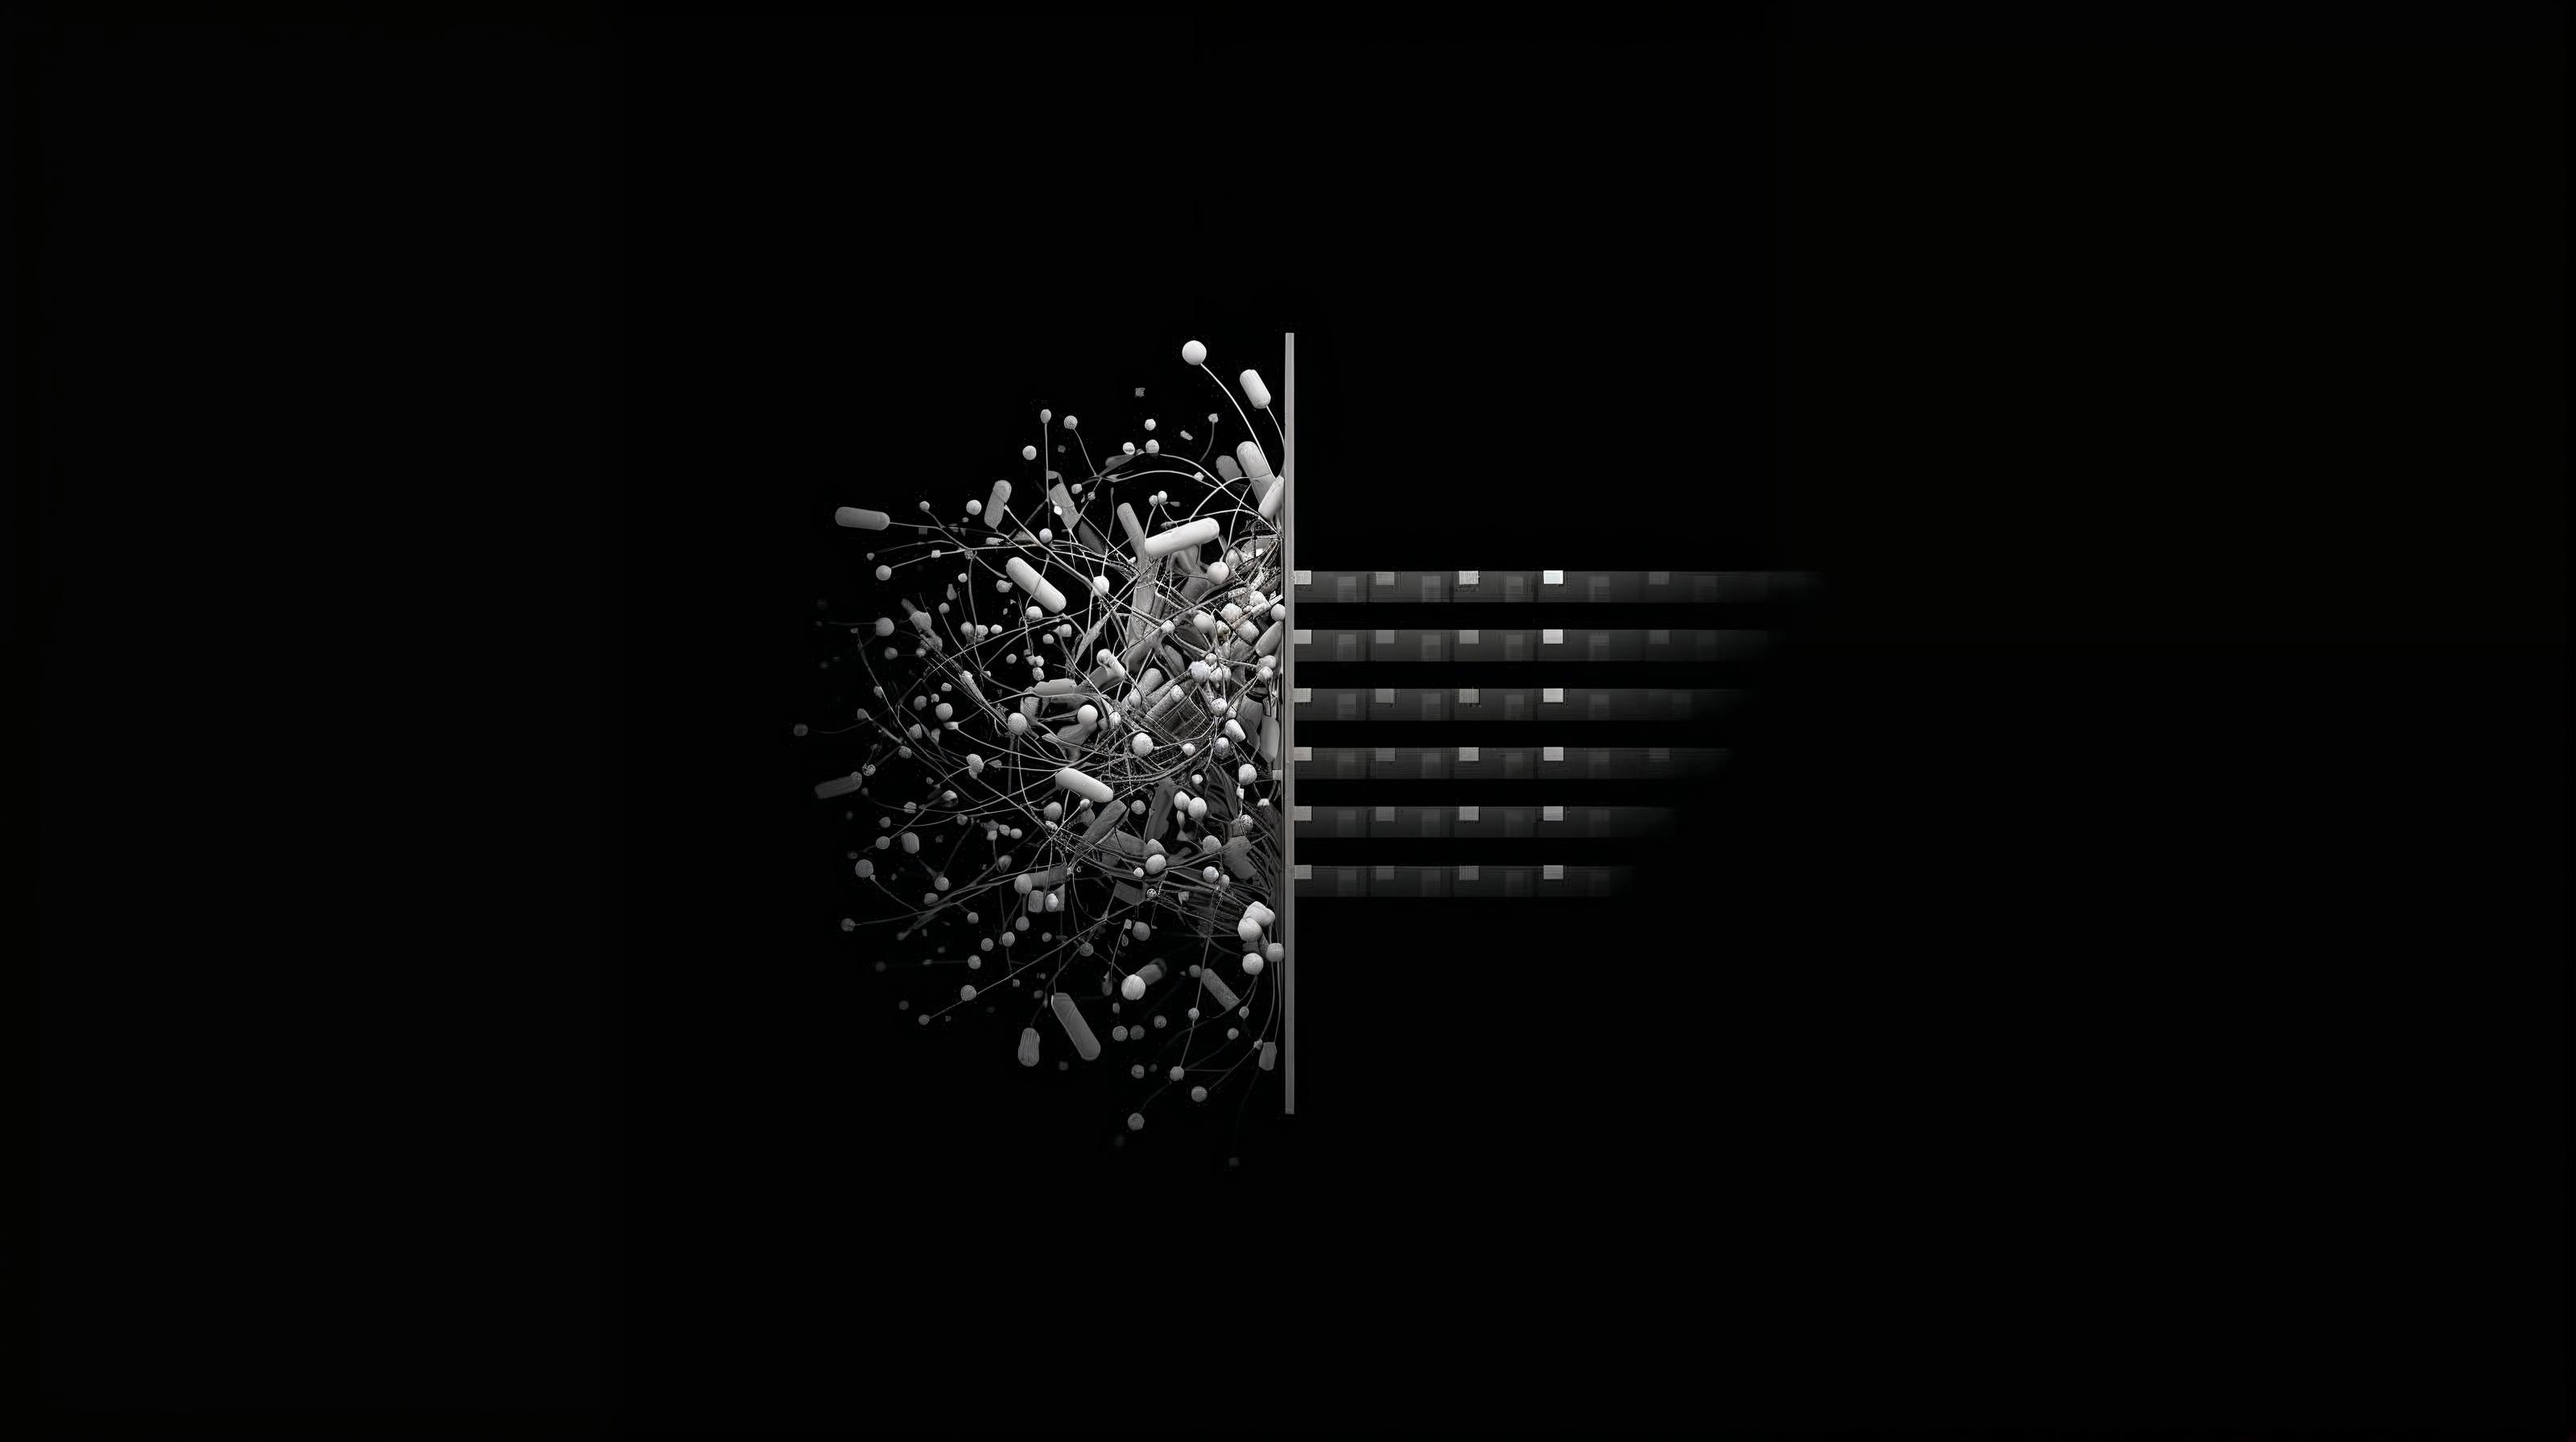
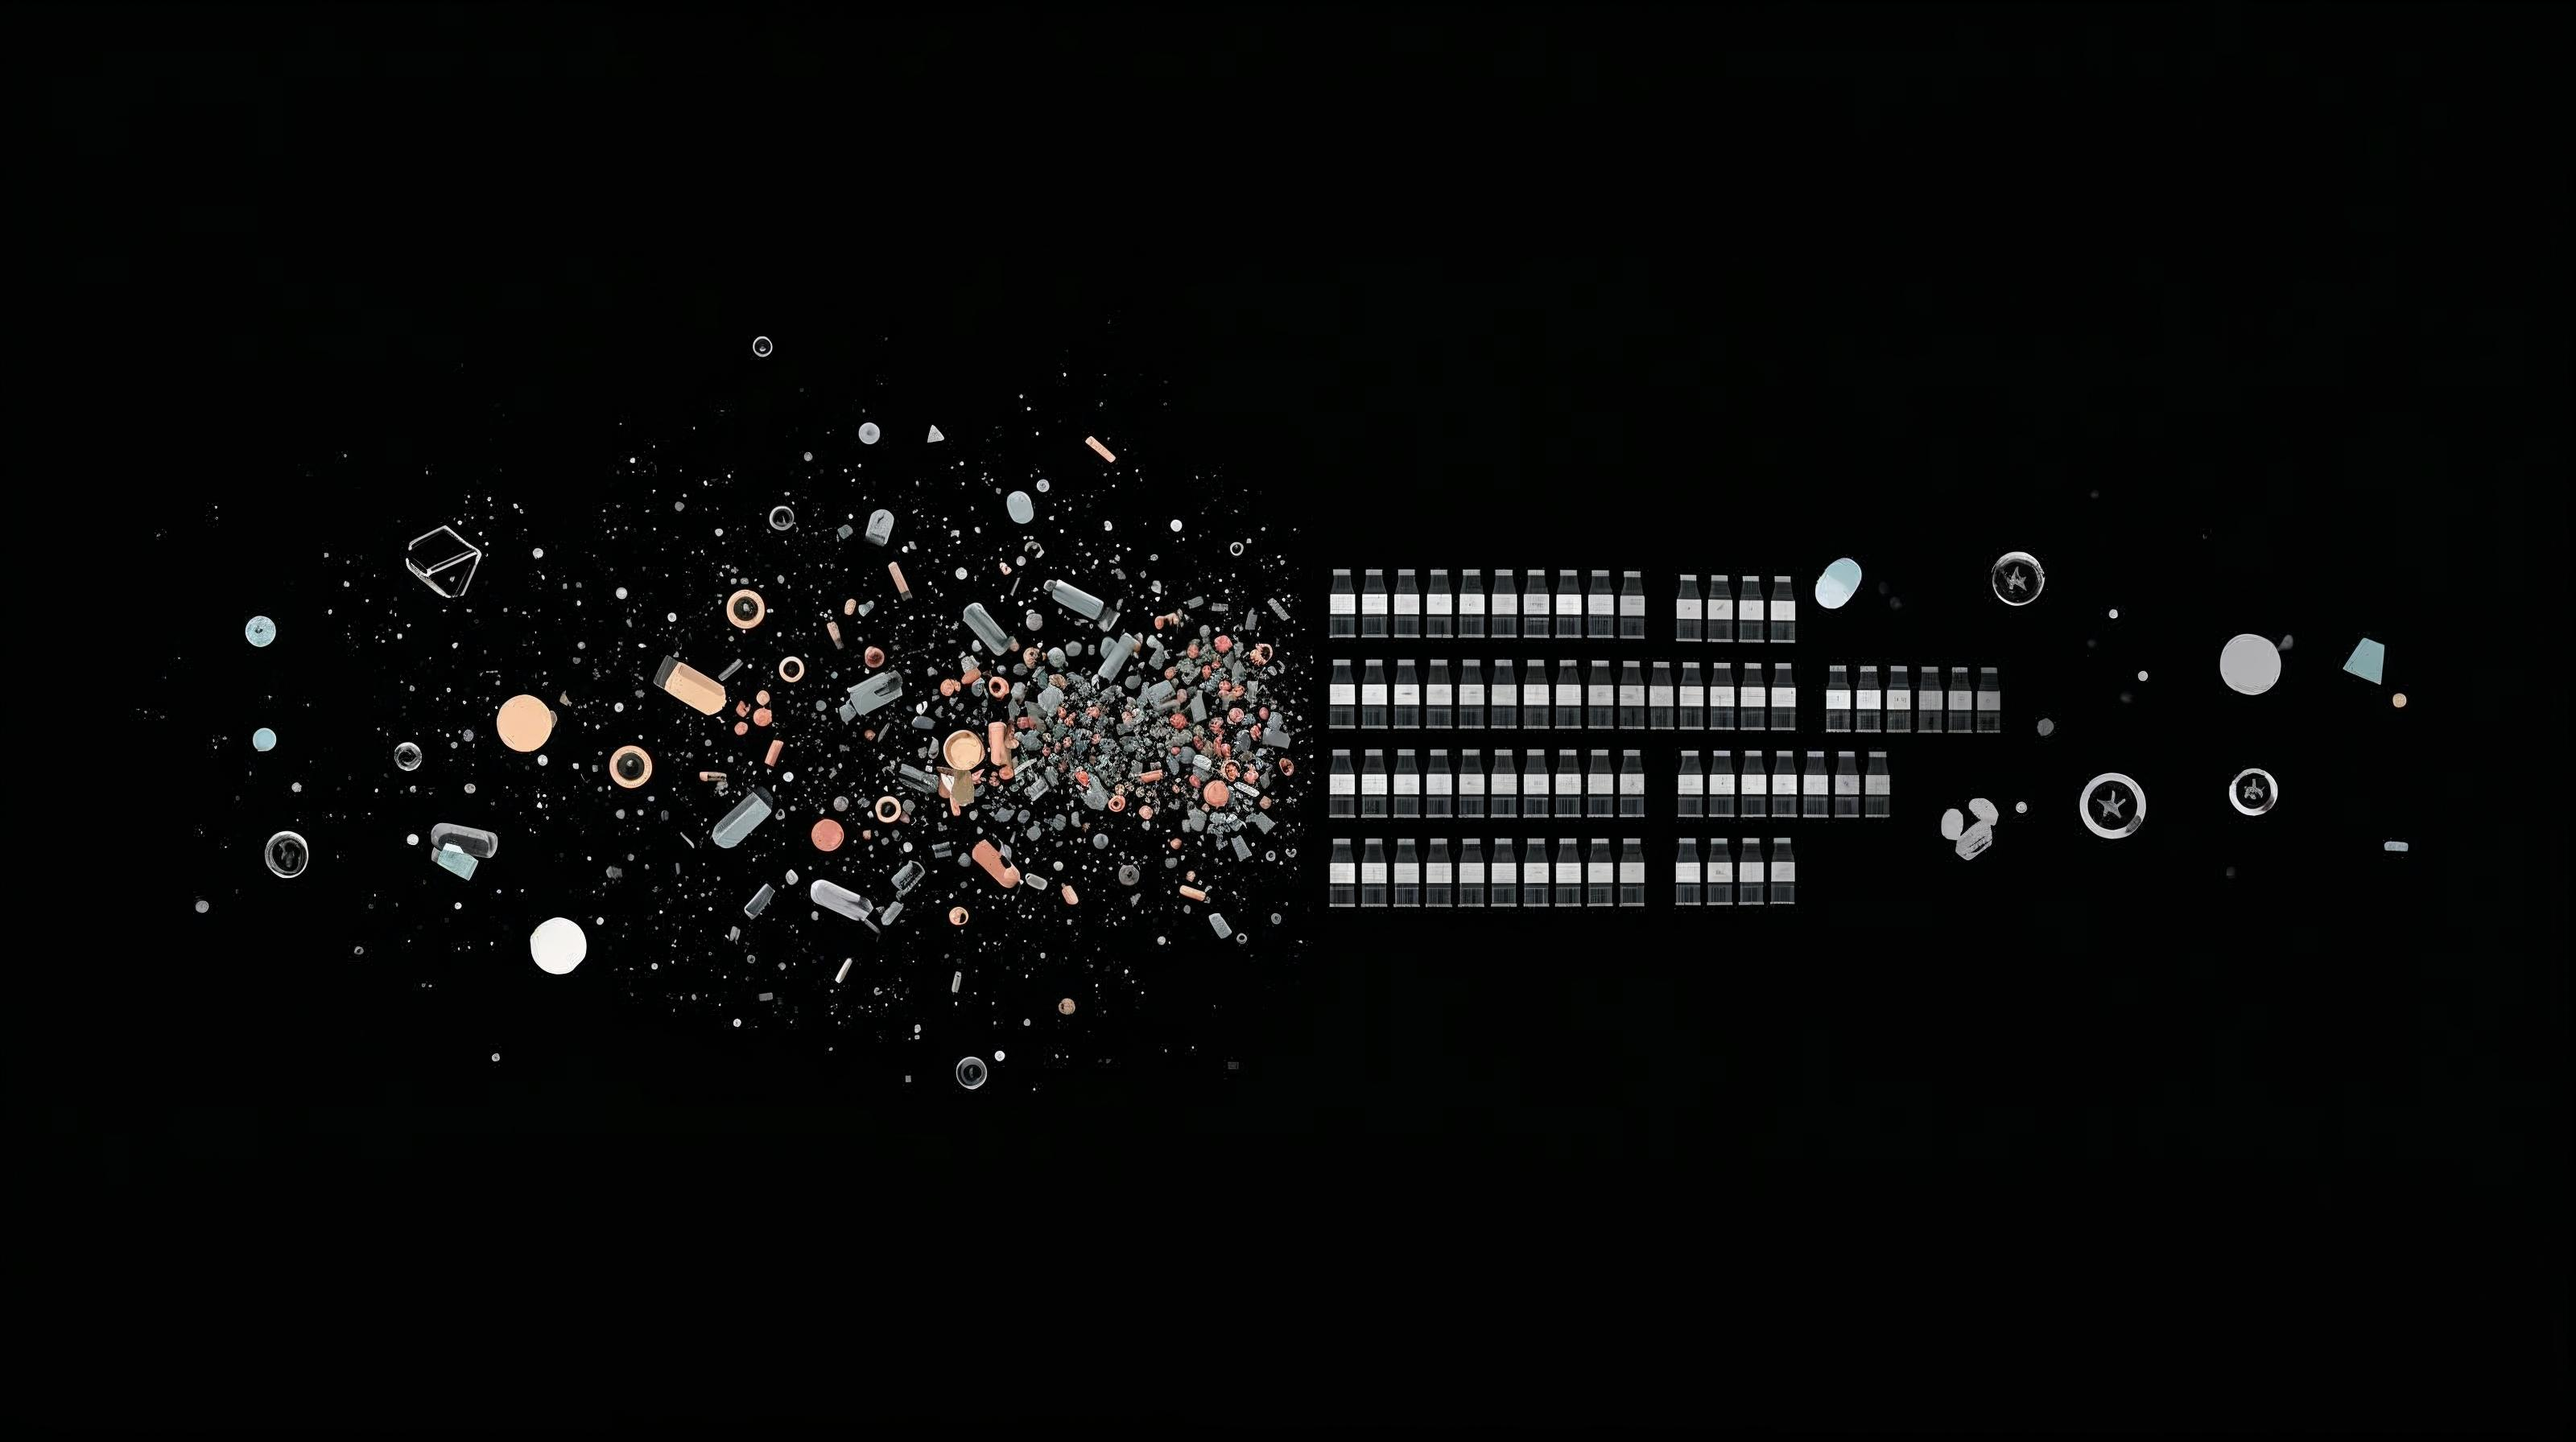
Update Fimea case study text content and cover image
Text updates:
- Change 'quality software engineering' to 'rigorous software engineering'
- Add full stops to challenge bullet points
- Change 'With the team we facilitated' to 'As a team we facilitated'

Image updates:
- Update Fimea cover image with improved version

diff --git a/src/content/case-studies/fimea-registry.md b/src/content/case-studies/fimea-registry.md
@@ -1,6 +1,6 @@
 ---
 title: "Fimea Pharmaceutical Registry"
-description: "Modernizing Finland's pharmaceutical data systems through user-centered design, strategic product thinking, and quality software engineering."
+description: "Modernizing Finland's pharmaceutical data systems through user-centered design, strategic product thinking, and rigorous software engineering."
 client: "Finnish Medicines Agency (Fimea)"
 role: "Senior Product Designer at Solita"
 timeline: "2 years"
@@ -17,10 +17,10 @@ outcome: "A modern register platform with EU-level compatibility"
 
 Finland's pharmaceutical registry system (iRis) was facing critical challenges:
 
-- **An aging system** struggling with modern regulatory requirements
-- **Manual, Excel-based processes** creating inefficiencies across the organization
-- **Need to comply** with upcoming EU regulations for automated pharmaceutical change management
-- **Disconnected data silos** preventing efficient information flow between stakeholders
+- **An aging system** struggling with modern regulatory requirements.
+- **Manual, Excel-based processes** creating inefficiencies across the organization.
+- **Need to comply** with upcoming EU regulations for automated pharmaceutical change management.
+- **Disconnected data silos** preventing efficient information flow between stakeholders.
 
 ## My Role
 
